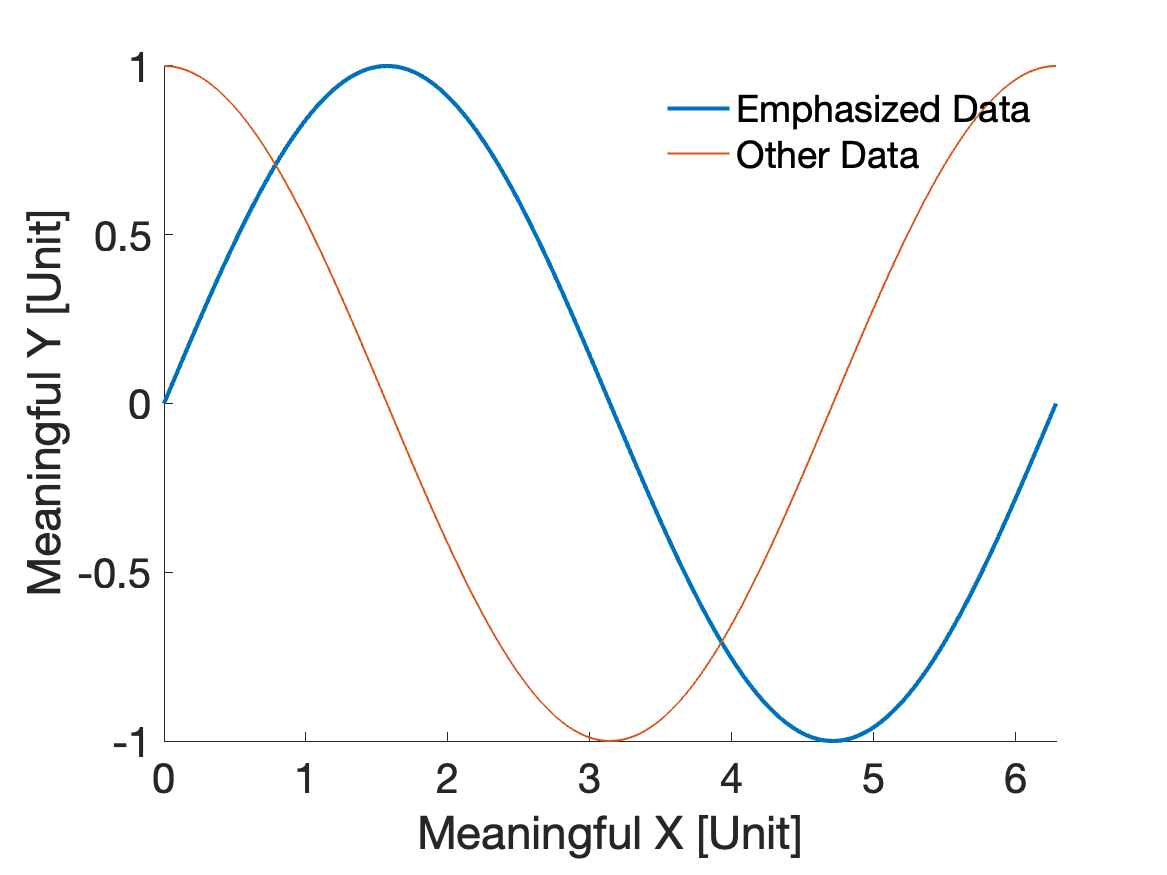
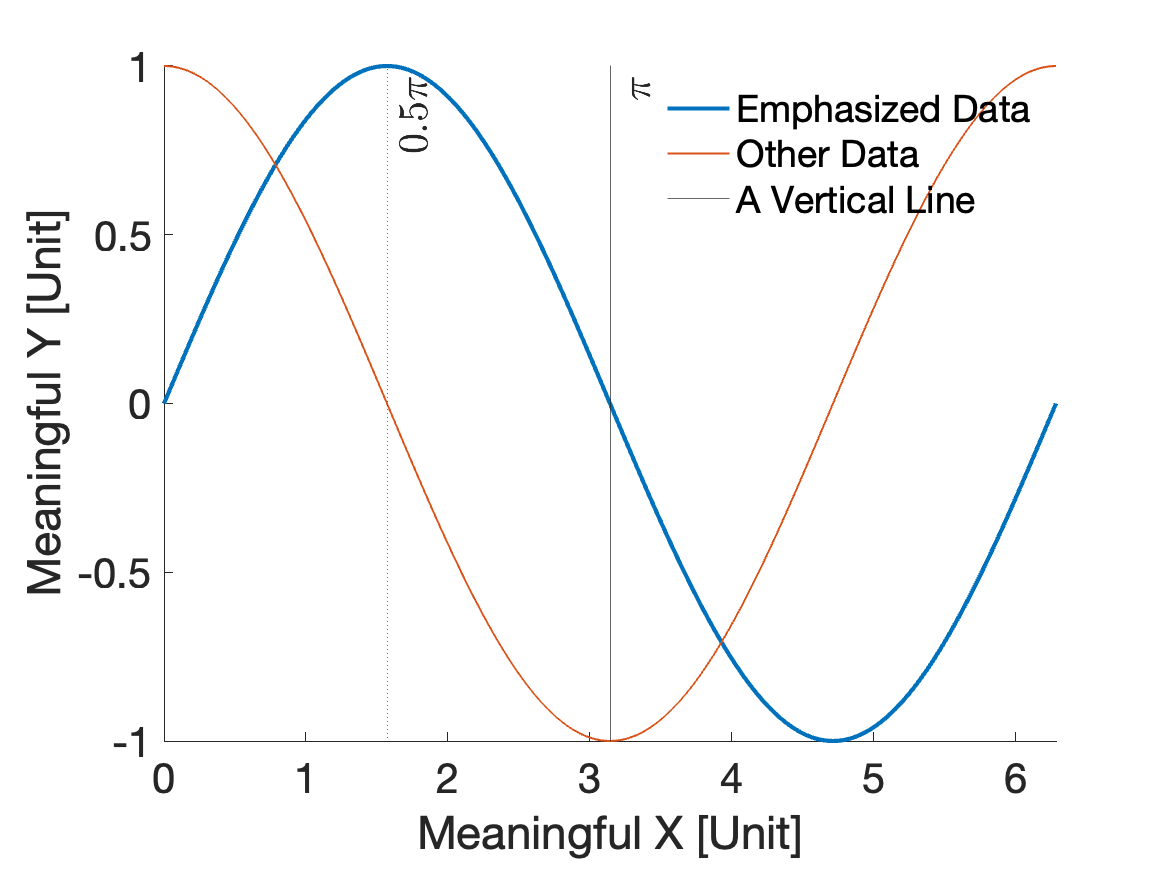
Added xline example

diff --git a/Sample_Plot.m b/Sample_Plot.m
@@ -12,7 +12,7 @@ plot(ax1, x, sin(x), LineWidth=2, DisplayName="Emphasized Data")
 % Removing box around axis
 box off
 % Setting font size
-fontsize(fig_sin, 20, "points")
+fontsize(ax1, 20, "points")
 % Labelling x and y axes
 xlabel("Meaningful X [Unit]")
 ylabel("Meaningful Y [Unit]")
@@ -23,6 +23,14 @@ legend boxoff
 
 % To add more data to the same axis
 plot(ax1, x, cos(x), LineWidth=1, DisplayName="Other Data")
+
+% To add a vertical line with label on the axis
+% Note that you may have to manually assign font size here
+xline(ax1, pi,'-','$\pi$', DisplayName='A Vertical Line',FontSize=20, ...
+    Interpreter='latex');
+% To not show a vertical line it in legend box
+xline(ax1, pi/2, ':', '$0.5 \pi$', HandleVisibility='off', FontSize=20, ...
+    Interpreter='latex');
 
 % Saving figure to computer
 filename = "Sample_Plot";
